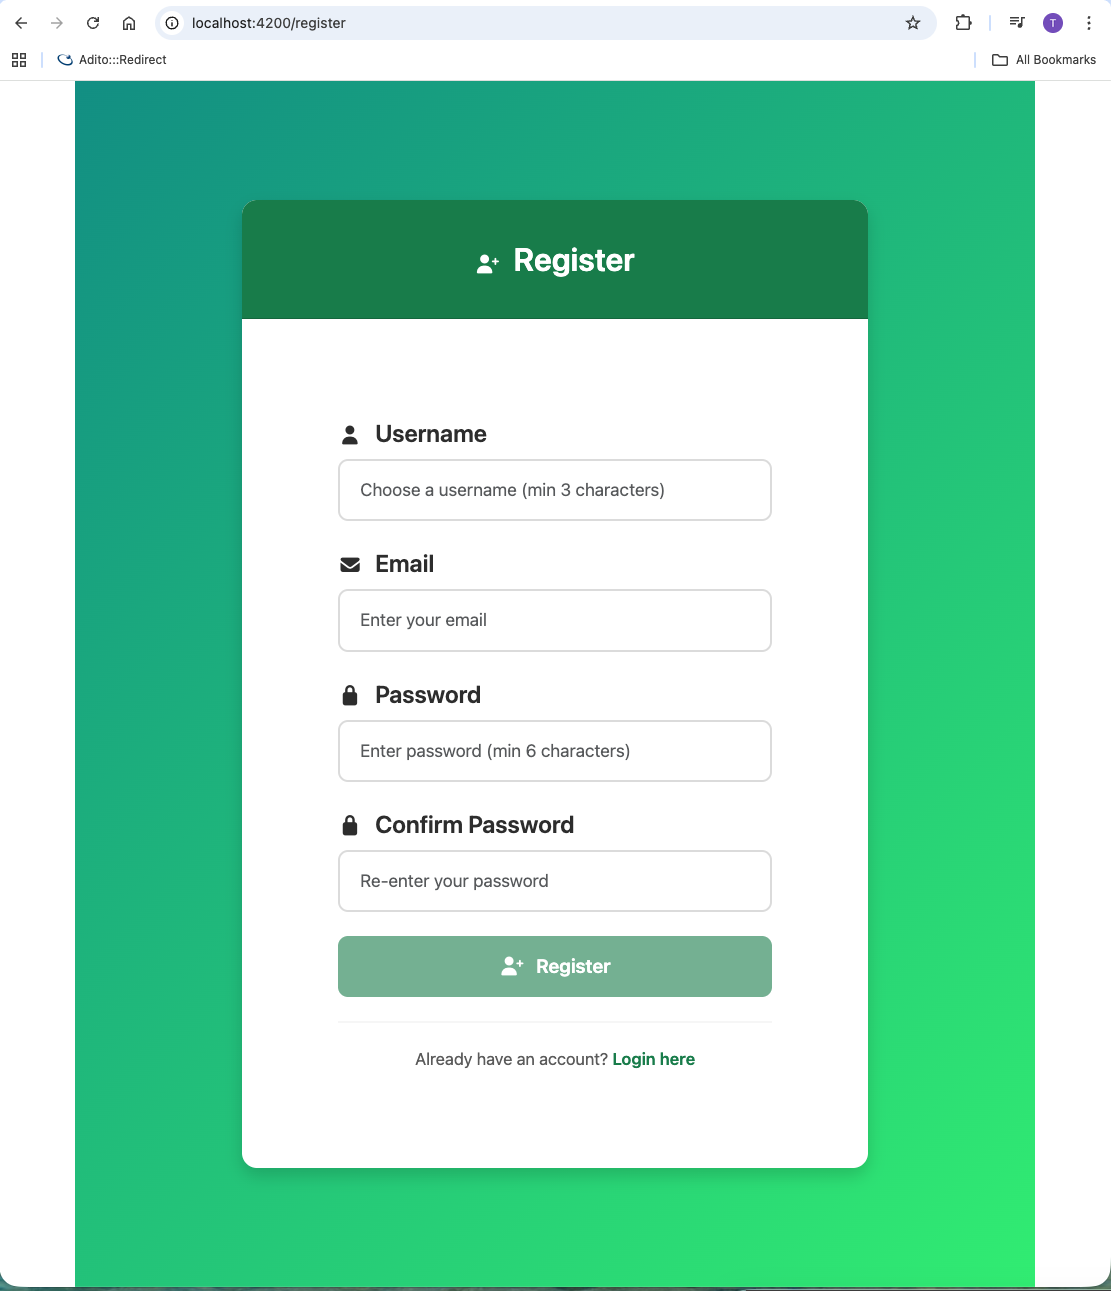
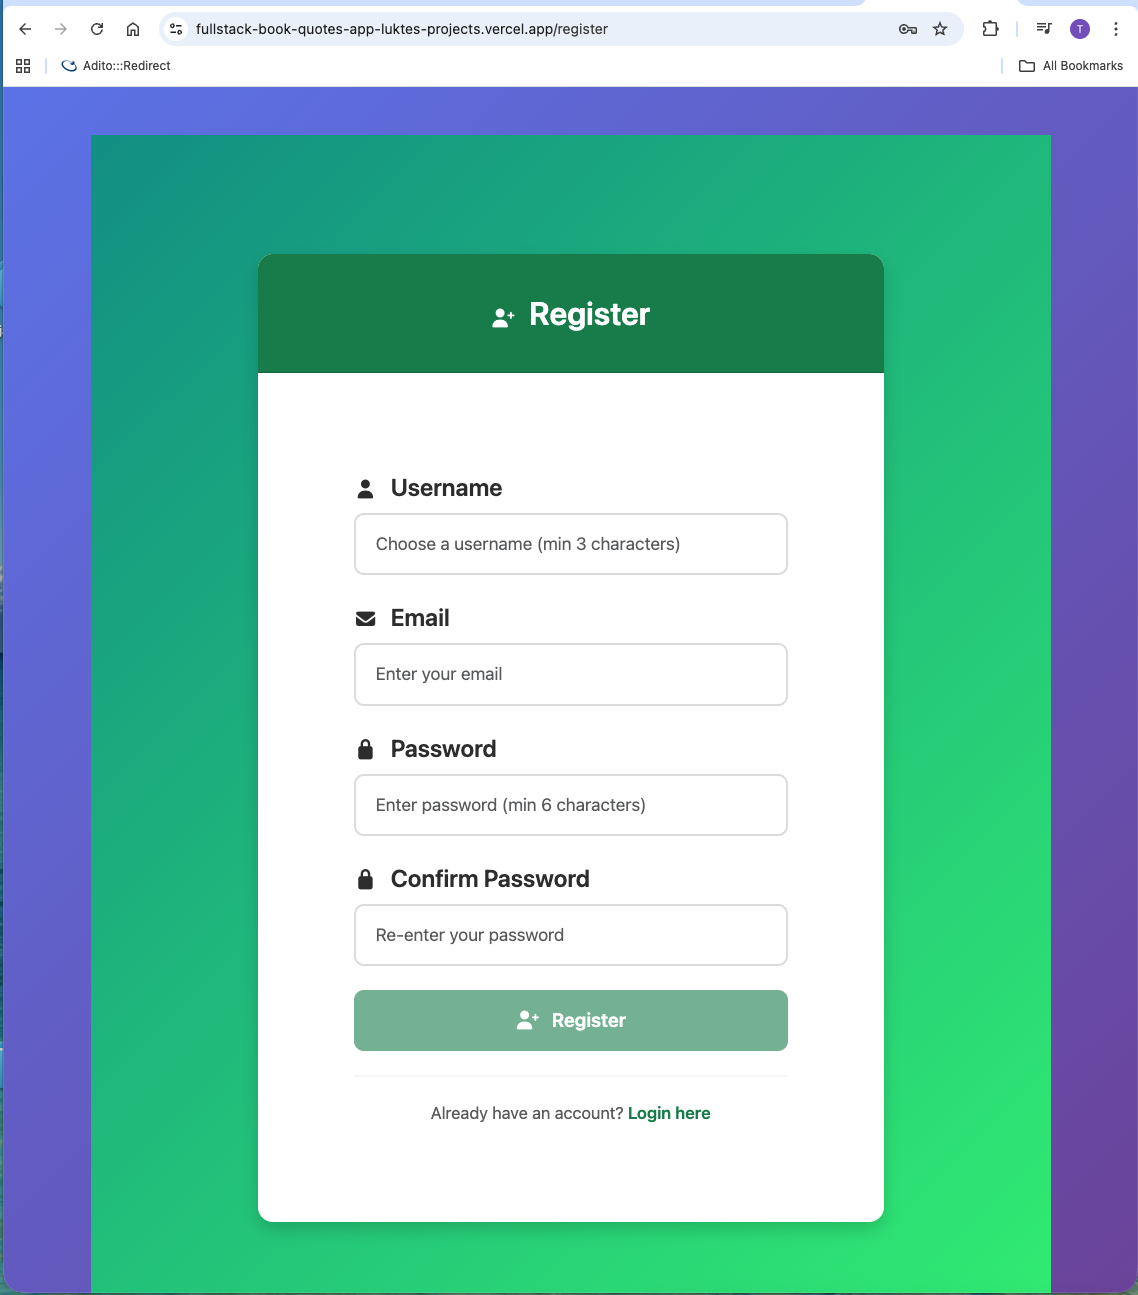
Add screenshots to README

diff --git a/README.md b/README.md
@@ -2,6 +2,13 @@
 
 A full-stack web application for managing books and favorite quotes with user authentication.
 
+## 🚀 Live Demo
+**[View Live Application](https://fullstack-book-quotes-app-luktes-projects.vercel.app)**
+
+- **Frontend:** Deployed on Vercel
+- **Backend:** Deployed on Render
+- **Database:** MongoDB Atlas
+
 ## Features
 
 - 📚 **Book Management**: Create, read, update, and delete books
@@ -29,23 +36,65 @@ A full-stack web application for managing books and favorite quotes with user au
 
 ### Prerequisites
 - Node.js (v18+)
-- MongoDB
-- Angular CLI
+- MongoDB (local) or MongoDB Atlas account
+- Angular CLI (`npm install -g @angular/cli`)
 
-### Backend Setup
+### Local Development Setup
+
+#### 1. Clone the repository
+```bash
+git clone https://github.com/Lukte/Fullstack-book-quotes-app.git
+cd Fullstack-book-quotes-app
+```
+
+#### 2. Backend Setup
 ```bash
 cd backend
 npm install
-# Create .env file with MONGODB_URI and JWT_SECRET
-npm start
 ```
 
-### Frontend Setup
+Create a `.env` file in the `backend/` directory:
+```env
+MONGODB_URI=mongodb://localhost:27017/bookquotes
+JWT_SECRET=your-secret-key-here
+```
+
+Start the backend:
+```bash
+npm start
+# Server runs on http://localhost:3000
+```
+
+#### 3. Frontend Setup
 ```bash
 cd frontend
 npm install
 ng serve --no-ssr
+# App runs on http://localhost:4200
 ```
+
+### Production Deployment
+
+#### Backend (Render/Railway)
+1. Create account on Render.com
+2. Connect your GitHub repository
+3. Set root directory to `backend`
+4. Add environment variables: `MONGODB_URI` and `JWT_SECRET`
+5. Deploy
+
+#### Frontend (Vercel/Netlify)
+1. Update `frontend/src/environments/environment.prod.ts`:
+```typescript
+export const environment = {
+  production: true,
+  apiUrl: 'https://your-backend-url.onrender.com'
+};
+```
+
+2. Create account on Vercel.com
+3. Connect your GitHub repository
+4. Set root directory to `frontend`
+5. Deploy
 
 ## API Endpoints
 
@@ -94,9 +143,27 @@ ng serve --no-ssr
 ![Quote Form](screenshots/10-quote-form-dark.png)
 
 ### Mobile View (Responsive Design)
-![Mobile View](screenshots/11-mobile-view.png)
+![Mobile View-light](screenshots/11-mobile-view-light.png)
+![Mobile view-dark](screenshots/12-mobile-view-dark.png)
 
 
+## 🌐 Deployment
+
+### Frontend (Vercel)
+- **URL:** https://fullstack-book-quotes-app-luktes-projects.vercel.app 
+- **Framework:** Angular 18
+- **Auto-deploys:** On push to main branch
+
+
+### Backend (Render)
+- **URL:** https://book-quotes-backend-6h99.onrender.com
+- **Framework:** Node.js + Express
+- **Auto-deploys:** On push to main branch
+
+
+### Database (MongoDB Atlas)
+- **Cloud Database:** Free tier (M0)
+- **Region:** EU (Frankfurt)
 
 ## Author
 
